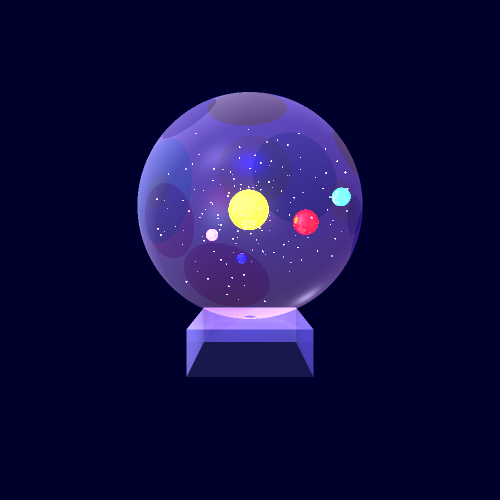
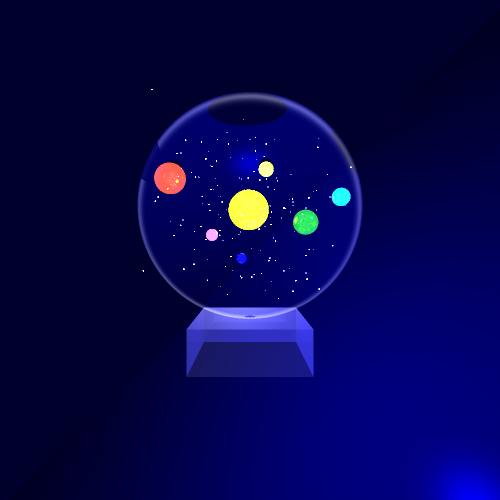
Final project2

diff --git a/src/renderer/Render.java b/src/renderer/Render.java
@@ -1,6 +1,6 @@
 package renderer;
 
-import elements.Camera;
+import elements.*;
 import scene.Scene;
 import primitives.*;
 
@@ -10,6 +10,149 @@ public class Render {
     ImageWriter imageWriter;
     Camera camera;
     RayTracerBase rayTracer;
+
+    private static final String RESOURCE_ERROR = "Renderer resource not set";
+    private static final String RENDER_CLASS = "Render";
+    private static final String IMAGE_WRITER_COMPONENT = "Image writer";
+    private static final String CAMERA_COMPONENT = "Camera";
+    private static final String RAY_TRACER_COMPONENT = "Ray tracer";
+
+    private int threadsCount = 0;
+    private static final int SPARE_THREADS = 2; // Spare threads if trying to use all the cores
+    private boolean print = false; // printing progress percentage
+
+    public Render setMultithreading(int threads) {
+        if (threads < 0)
+            throw new IllegalArgumentException("Multithreading parameter must be 0 or higher");
+        if (threads != 0)
+            this.threadsCount = threads;
+        else {
+            int cores = Runtime.getRuntime().availableProcessors() - SPARE_THREADS;
+            this.threadsCount = cores <= 2 ? 1 : cores;
+        }
+        return this;
+    }
+    public Render setDebugPrint() {
+        print = true;
+        return this;
+    }
+
+
+    private class Pixel{
+        private long maxRows = 0;
+        private long maxCols = 0;
+        private long pixels = 0;
+        public volatile int row = 0;
+        public volatile int col = -1;
+        private long counter = 0;
+        private int percents = 0;
+        private long nextCounter = 0;
+
+        /**
+         * The constructor for initializing the main follow up Pixel object
+         *
+         * @param maxRows the amount of pixel rows
+         * @param maxCols the amount of pixel columns
+         */
+        public Pixel(int maxRows, int maxCols) {
+        this.maxRows = maxRows;
+        this.maxCols = maxCols;
+        this.pixels = (long) maxRows * maxCols;
+        this.nextCounter = this.pixels / 100;
+        if (Render.this.print)
+            System.out.printf("\r %02d%%", this.percents);
+    }
+
+        /**
+         * Default constructor for secondary Pixel objects
+         */
+        public Pixel() {
+    }
+
+        /**
+         * Internal function for thread-safe manipulating of main follow up Pixel object
+         * - this function is critical section for all the threads, and main Pixel
+         * object data is the shared data of this critical section.<br/>
+         * The function provides next pixel number each call.
+         *
+         * @param target target secondary Pixel object to copy the row/column of the
+         *               next pixel
+         * @return the progress percentage for follow up: if it is 0 - nothing to print,
+         *         if it is -1 - the task is finished, any other value - the progress
+         *         percentage (only when it changes)
+         */
+        private synchronized int nextP(Pixel target) {
+        ++col;
+        ++this.counter;
+        if (col < this.maxCols) {
+            target.row = this.row;
+            target.col = this.col;
+            if (Render.this.print && this.counter == this.nextCounter) {
+                ++this.percents;
+                this.nextCounter = this.pixels * (this.percents + 1) / 100;
+                return this.percents;
+            }
+            return 0;
+        }
+        ++row;
+        if (row < this.maxRows) {
+            col = 0;
+            target.row = this.row;
+            target.col = this.col;
+            if (Render.this.print && this.counter == this.nextCounter) {
+                ++this.percents;
+                this.nextCounter = this.pixels * (this.percents + 1) / 100;
+                return this.percents;
+            }
+            return 0;
+        }
+        return -1;
+    }
+
+        /**
+         * Public function for getting next pixel number into secondary Pixel object.
+         * The function prints also progress percentage in the console window.
+         *
+         * @param target target secondary Pixel object to copy the row/column of the
+         *               next pixel
+         * @return true if the work still in progress, -1 if it's done
+         */
+        public boolean nextPixel(Pixel target) {
+        int percent = nextP(target);
+        if (Render.this.print && percent > 0)
+            synchronized (this) {
+                notifyAll();
+            }
+        if (percent >= 0)
+            return true;
+        if (Render.this.print)
+            synchronized (this) {
+                notifyAll();
+            }
+        return false;
+    }
+
+        /**
+         * Debug print of progress percentage - must be run from the main thread
+         */
+        public void print() {
+        if (Render.this.print)
+            while (this.percents < 100)
+                try {
+                    synchronized (this) {
+                        wait();
+                    }
+                    System.out.printf("\r %02d%%", this.percents);
+                    System.out.flush();
+                } catch (Exception e) {
+                }
+    }
+    }
+    /**
+     * Image, RayTracer,Camera... implementations
+     * @param
+     * @return
+     */
 
     public Render setImageWriter(ImageWriter _imageWriter) {
         imageWriter = _imageWriter;
@@ -43,56 +186,112 @@ public class Render {
             }
 
             //rendering the image
-            int nX = imageWriter.getNx()*2;
-            int nY = imageWriter.getNy()*2;
-            for (int i = 0; i < nY; i+=2) {
-                for (int j = 0; j < nX; j+=2) {
-                    Ray rays[] = {camera.constructRayThroughPixel(nX, nY, j + 1, i),
-                            camera.constructRayThroughPixel(nX, nY, j, i + 1),
-                            camera.constructRayThroughPixel(nX, nY, j + 1, i + 1),
-                            camera.constructRayThroughPixel(nX, nY, j, i)};
+            int nX = imageWriter.getNx() * 2;
+            int nY = imageWriter.getNy() * 2;
+            if (threadsCount == 0) {
+                for (int i = 0; i < nY; i += 2) {
+                    for (int j = 0; j < nX; j += 2) {
+                        Ray rays[] = {camera.constructRayThroughPixel(nX, nY, j + 1, i),
+                                camera.constructRayThroughPixel(nX, nY, j, i + 1),
+                                camera.constructRayThroughPixel(nX, nY, j + 1, i + 1),
+                                camera.constructRayThroughPixel(nX, nY, j, i)};
 
-                    Color pixelColor = Color.BLACK;
+                        Color pixelColor = Color.BLACK;
 
-                    for (Ray r : rays) {
-                        pixelColor = pixelColor.add(rayTracer.traceRay(r));
+                        for (Ray r : rays) {
+                            pixelColor = pixelColor.add(rayTracer.traceRay(r));
+                        }
 
+
+                        imageWriter.writePixel(j / 2, i / 2, pixelColor.reduce(4));
                     }
 
-                    imageWriter.writePixel(j/2, i/2, pixelColor.reduce(4));
                 }
-        }
-        } catch (MissingResourceException e) {
+            } else
+                renderImageThreaded();
+        }  catch (MissingResourceException e) {
             throw new UnsupportedOperationException("Not implemented yet" + e.getClassName());
         }
     }
 
 
-    public void printGrid ( int interval, Color color)
-    {
+    public void printGrid(int interval, Color color) {
         if (imageWriter == null)
             throw new MissingResourceException("missing imageWriter", ImageWriter.class.getName(), "");
         int nX = imageWriter.getNx();
         int nY = imageWriter.getNy();
 
-        for (int i = 0; i < nX; i +=interval) {
+        for (int i = 0; i < nX; i += interval) {
             for (int j = 0; j < nY; j++) {
                 imageWriter.writePixel(i, j, color);
             }
         }
-        for (int i = 0; i < nY; i +=interval) {
+        for (int i = 0; i < nY; i += interval) {
             for (int j = 0; j < nX; j++) {
                 imageWriter.writePixel(j, i, color);
             }
         }
     }
 
-    public void writeToImage ()
-    {
+    public void writeToImage() {
         if (imageWriter == null)
             throw new MissingResourceException("missing imageWriter", ImageWriter.class.getName(), "");
         imageWriter.writeToImage();
     }
 
 
+        private void castRay(int nX, int nY, int col, int row) {
+col*=2;
+row*=2;
+            nX*=2;
+            nY*=2;
+                    Ray rays[] = {camera.constructRayThroughPixel(nX, nY, col + 1, row),
+                            camera.constructRayThroughPixel(nX, nY, col, row + 1),
+                            camera.constructRayThroughPixel(nX, nY, col + 1, row + 1),
+                            camera.constructRayThroughPixel(nX, nY, col, row)};
+
+                    Color pixelColor = Color.BLACK;
+
+                    for (Ray r : rays) {
+                        pixelColor = pixelColor.add(rayTracer.traceRay(r));
+                    }
+            imageWriter.writePixel((long)(col+1) / 2, row / 2, pixelColor.reduce(4));
+            imageWriter.writePixel(col / 2, (row+1) / 2, pixelColor.reduce(4));
+            imageWriter.writePixel((col+1) / 2, (row+1) / 2, pixelColor.reduce(4));
+            imageWriter.writePixel(col / 2, row / 2, pixelColor.reduce(4));
+
+
+            }
+
+
+            private void renderImageThreaded () {
+                final int nX = imageWriter.getNx();
+                final int nY = imageWriter.getNy();
+                final Pixel thePixel = new Pixel(nY, nX);
+                // Generate threads
+                Thread[] threads = new Thread[threadsCount];
+                for (int x = threadsCount - 1; x >= 0; --x) {
+                    threads[x] = new Thread(() -> {
+                        Pixel pixel = new Pixel();
+                        while (thePixel.nextPixel(pixel))
+                            castRay(nX, nY, pixel.col, pixel.row);
+                    });
+                }
+                // Start threads
+                for (Thread thread : threads)
+                    thread.start();
+
+                // Print percents on the console
+                thePixel.print();
+
+                // Ensure all threads have finished
+                for (Thread thread : threads)
+                    try {
+                        thread.join();
+                    } catch (Exception e) {
+                    }
+
+                if (print)
+                    System.out.print("\r100%");
+            }
 }

diff --git a/src/unittests/MiniProjectRender1.java b/src/unittests/MiniProjectRender1.java
@@ -33,11 +33,12 @@ public class MiniProjectRender1 {
                 new Sphere(new Point3D(0, 30, 0), 80) //
                 .setEmission(new Color(0,0,0))//
                 .setMaterial(new Material().setKd(0.255).setKs(0.4).setShininess(50).setKr(0).setKt(1)),
-             /* new Triangle(new Point3D(-660, 640, 640), new Point3D(640, -660, 640),
-                     new Point3D(-577, -577, -810)) //
-                    .setEmission(new Color(20,20,20)) //
-                      .setMaterial(new Material().setKt(0.99)),*/
-        new Triangle(new Point3D(-40, -50, -40), new Point3D(40, -50, -40),
+
+                new Triangle(new Point3D(-660, 640, 640), new Point3D(640, -660, 640),
+                        new Point3D(-577, -577, -810)) //
+                        .setEmission(new Color(java.awt.Color.BLACK))
+                        .setMaterial(new Material().setKd(0.5).setKs(0.5).setShininess(60)), //
+                new Triangle(new Point3D(-40, -50, -40), new Point3D(40, -50, -40),
                 new Point3D(40, -80, -40))//
                 .setEmission(new Color(24,24,24)) //
                 .setMaterial(new Material().setKd(0.25).setKs(0.4).setShininess(50).setKr(0.1).setKt(1)),
@@ -77,9 +78,9 @@ public class MiniProjectRender1 {
                         new Point3D(40, -50, 40))//
                         .setEmission(new Color(24,24,24))
                         .setMaterial(new Material().setKd(0.25).setKs(0.4).setShininess(50).setKr(0.1).setKt(1)),
-        new Sphere(new Point3D(1,30,0),15)//
-        .setEmission(new Color(java.awt.Color.YELLOW))//
-                .setMaterial(new Material().setShininess(50).setKr(0.4).setKt(0.4)),
+                new Sphere(new Point3D(1,30,0),15)//
+                        .setEmission(new Color(java.awt.Color.YELLOW))//
+                        .setMaterial(new Material().setShininess(50).setKr(0.4).setKt(0.4)),
                 new Sphere(new Point3D(25,10,-30),4)//
                         .setEmission(new Color(219,95,194))//
                         .setMaterial(new Material().setShininess(50).setKr(0.4).setKt(0.4)),
@@ -87,11 +88,19 @@ public class MiniProjectRender1 {
                         .setEmission(new Color(java.awt.Color.BLUE))//
                         .setMaterial(new Material().setShininess(50).setKr(0.4).setKt(0.4)),
                 new Sphere(new Point3D(-40,20,-10),9)//
-                        .setEmission(new Color(java.awt.Color.RED))//
+                        .setEmission(new Color(21,132,15))//
                         .setMaterial(new Material().setShininess(50).setKr(0.4).setKt(0.4)),
                 new Sphere(new Point3D(-60,35,-30),6)//
-                        .setEmission(new Color(45,221,222))//
-                        .setMaterial(new Material().setKr(0.4).setKt(0.4 )));
+                        .setEmission(new Color(13,166,195))//
+                        .setMaterial(new Material().setKr(0.4).setKt(0.4 )),
+                new Sphere(new Point3D(67,60,30),13)//
+                        .setEmission(new Color(195,60,13))//
+                        .setMaterial(new Material().setShininess(50).setKr(0.4).setKt(0.4)),
+                new Sphere(new Point3D(-15,75,60),7)//
+                        .setEmission(new Color(198,234,49))//
+                        .setMaterial(new Material().setShininess(50).setKr(0.4).setKt(0.4)));
+
+        // making the stars
         for (var i=0; i < 200; i ++) {
             Random r = new Random();
             // min and max value of the radius
@@ -112,15 +121,16 @@ public class MiniProjectRender1 {
         }
 
        scene.lights.add( //
-                new SpotLight(new Color(java.awt.Color.WHITE),  new Point3D(-80, -90, 30), new Vector(2, 2, -6))//
+                new SpotLight(new Color(java.awt.Color.WHITE),  new Point3D(-80, -90, 1000), new Vector(2, 2, -6))//
                         .setKl(1E-5).setKq(1.5E-7));
         scene.lights.add( //
-                new SpotLight(new Color(java.awt.Color.WHITE),  new Point3D(30, 30, 10), new Vector(2, 2, -6))//
+                new SpotLight(new Color(java.awt.Color.WHITE),  new Point3D(30, 30, 1000), new Vector(2, 2, -6))//
                         .setKl(1E-5).setKq(1.5E-7));
 
 
 
-      scene.lights.add( //
+
+    /*scene.lights.add( //
                new PointLight(new Color(java.awt.Color.YELLOW),  new Point3D(1, 30, 0))//
                  .setKl(1E-5).setKq(1.5E-7));
         scene.lights.add( //
@@ -135,21 +145,29 @@ public class MiniProjectRender1 {
         scene.lights.add( //
                 new PointLight(new Color(45,221,222),  new Point3D(-60,35,-30))//
                         .setKl(1E-5).setKq(1.5E-7));
+        scene.lights.add( //
+                new PointLight(new Color(204,102,0),  new Point3D(67,60,30))//
+                        .setKl(1E-5).setKq(1.5E-7));
+        scene.lights.add( //
+                new PointLight(new Color(102,178,255),  new Point3D(-15,75,60))//
+                        .setKl(1E-5).setKq(1.5E-7));*/
         scene.lights.add(new PointLight(new Color(java.awt.Color.BLUE),new Point3D(0,-50,0)));
 
 
         Render render = new Render() //
-                .setImageWriter(new ImageWriter("Snow Ball", 500, 500)) //
+                .setImageWriter(new ImageWriter("Snow Ball", 1000, 1000)) //
                 .setCamera(camera) //
-                .setRayTracer(new RayTracerBasic(scene));
+                .setRayTracer(new RayTracerBasic(scene))//
+        .setMultithreading(0).setDebugPrint();
         render.renderImage();
         render.writeToImage();
 
-       camera.moveCamera(0,0,150);
+        camera.moveCamera(0,0,150);
         Render renderZ = new Render()//
                 .setImageWriter(new ImageWriter("Snow Ball Zoom", 500, 500)) //
                 .setCamera(camera) //
-                .setRayTracer(new RayTracerBasic(scene));
+                .setRayTracer(new RayTracerBasic(scene))//
+        .setMultithreading(3).setDebugPrint();
         renderZ.renderImage();
         renderZ.writeToImage();
 
